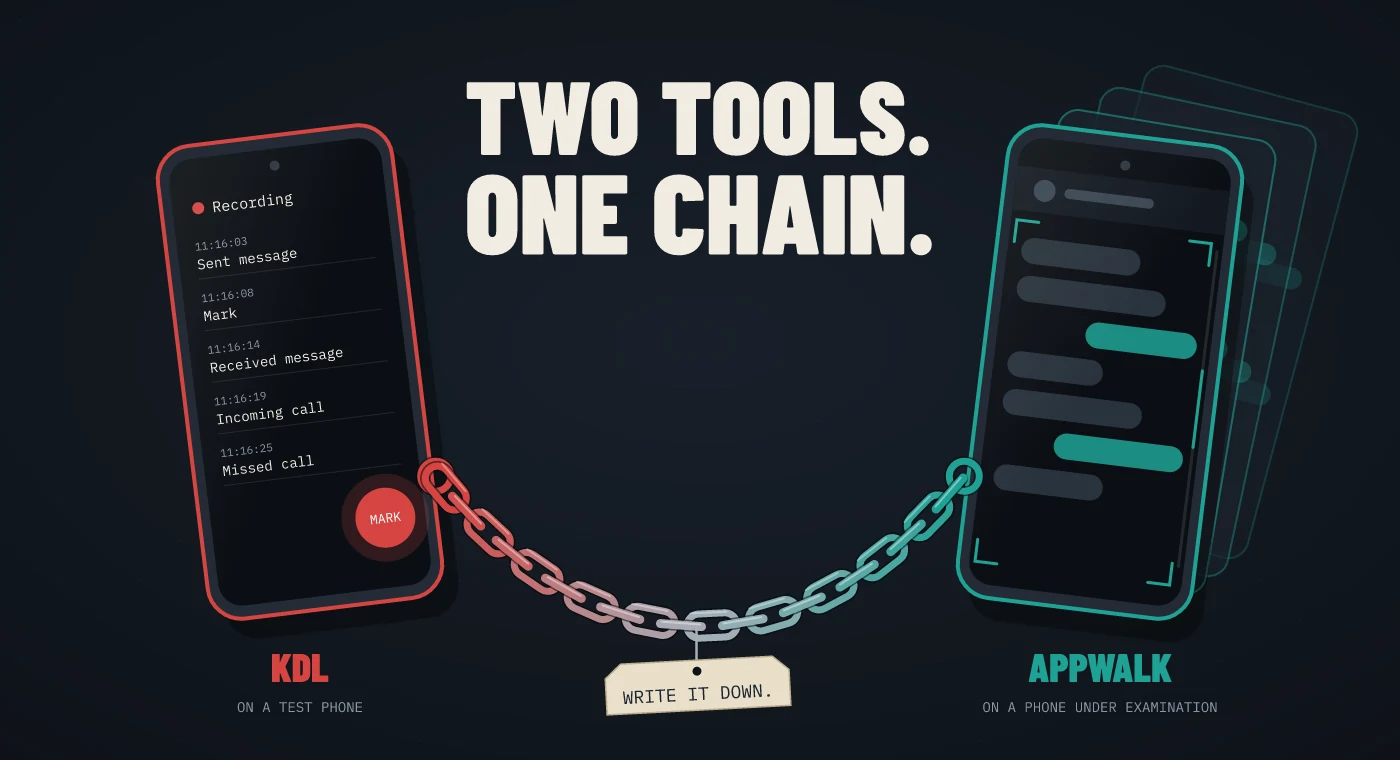
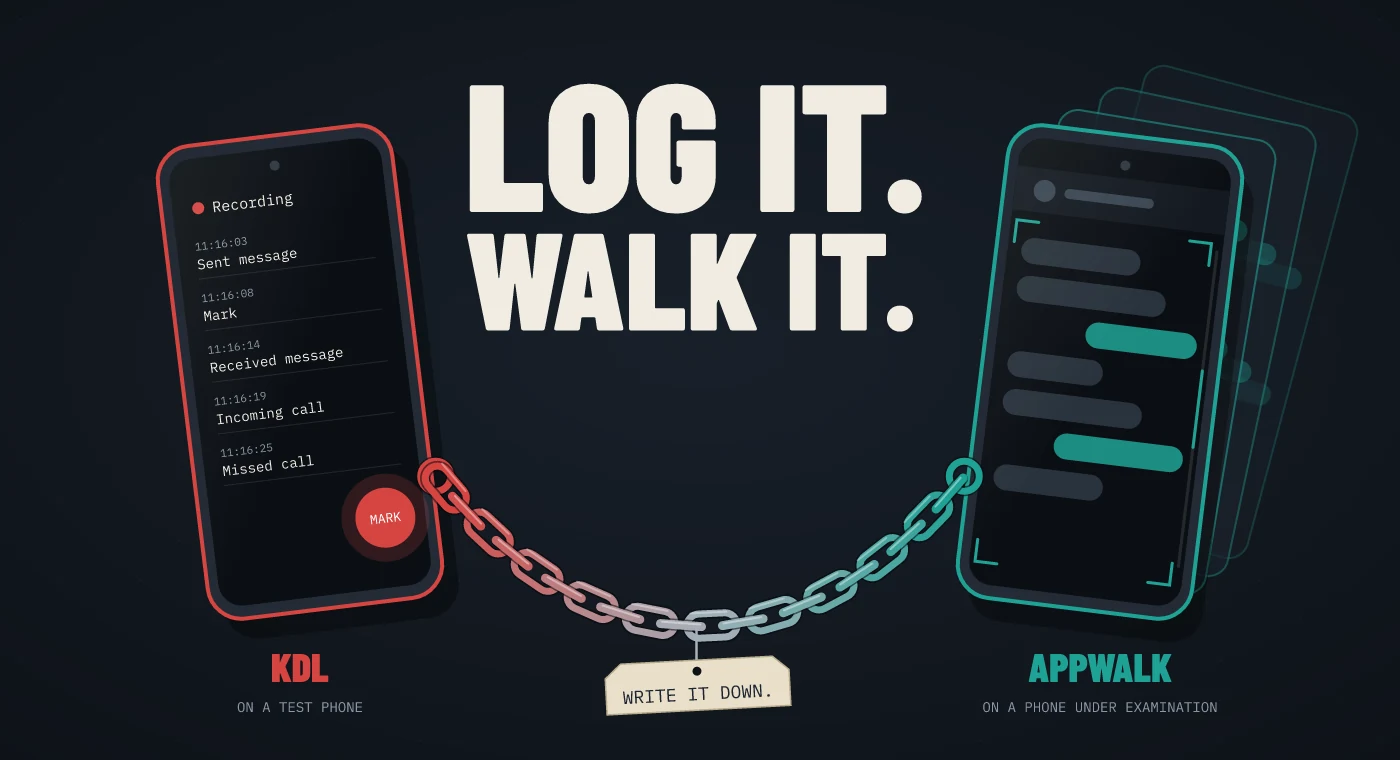
Blog: change the KDL and AppWalk hero headline to "Log it. Walk it."

Changed region(s): [[0.3071, 0.0908, 0.6757, 0.4539]]

diff --git a/blog/posts/2026-11-13-kdl-and-appwalk.md b/blog/posts/2026-11-13-kdl-and-appwalk.md
@@ -8,7 +8,7 @@ excerpt: KDL writes down what you do on a test phone, so a forensic tool can be 
 
 # KDL and AppWalk, two tools that work with the phone itself
 
-![Headline: Two tools. One chain. On the left, a phone with a red frame labelled KDL, on a test phone. Its screen says Recording and lists log rows: Sent message, Mark, Received message, Incoming call, Missed call, each with a time, and a red MARK button sits in the corner. On the right, a phone with a teal frame labelled AppWalk, on a phone under examination. Its screen shows chat bubbles inside capture brackets, with a stack of earlier screenshots fanned out behind it. A metal chain runs from one phone to the other, red on the KDL side and teal on the AppWalk side, and a paper tag hangs from its lowest link reading Write it down.](https://cdn.jsdelivr.net/gh/abrignoni/leapps-website@main/blog/images/2026-11-13-kdl-and-appwalk/kdl-appwalk-hero.webp)
+![Headline: Log it. Walk it. On the left, a phone with a red frame labelled KDL, on a test phone. Its screen says Recording and lists log rows: Sent message, Mark, Received message, Incoming call, Missed call, each with a time, and a red MARK button sits in the corner. On the right, a phone with a teal frame labelled AppWalk, on a phone under examination. Its screen shows chat bubbles inside capture brackets, with a stack of earlier screenshots fanned out behind it. A metal chain runs from one phone to the other, red on the KDL side and teal on the AppWalk side, and a paper tag hangs from its lowest link reading Write it down.](https://cdn.jsdelivr.net/gh/abrignoni/leapps-website@main/blog/images/2026-11-13-kdl-and-appwalk/kdl-appwalk-hero.webp)
 
 The LEAPPs read files out of an extraction. KDL and AppWalk work with the phone itself. They go on different phones and do different jobs, but they share one idea: write down what happened while it happens, in a record somebody else can check.
 
